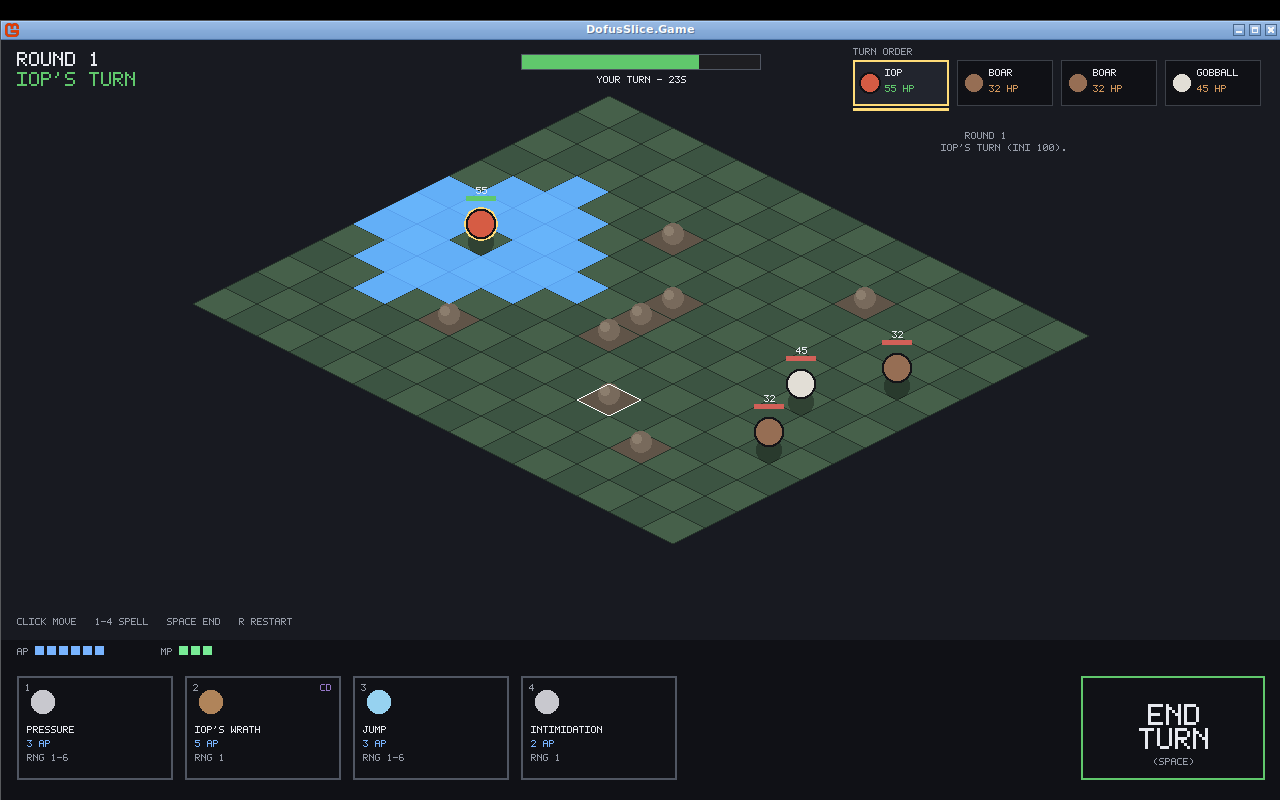
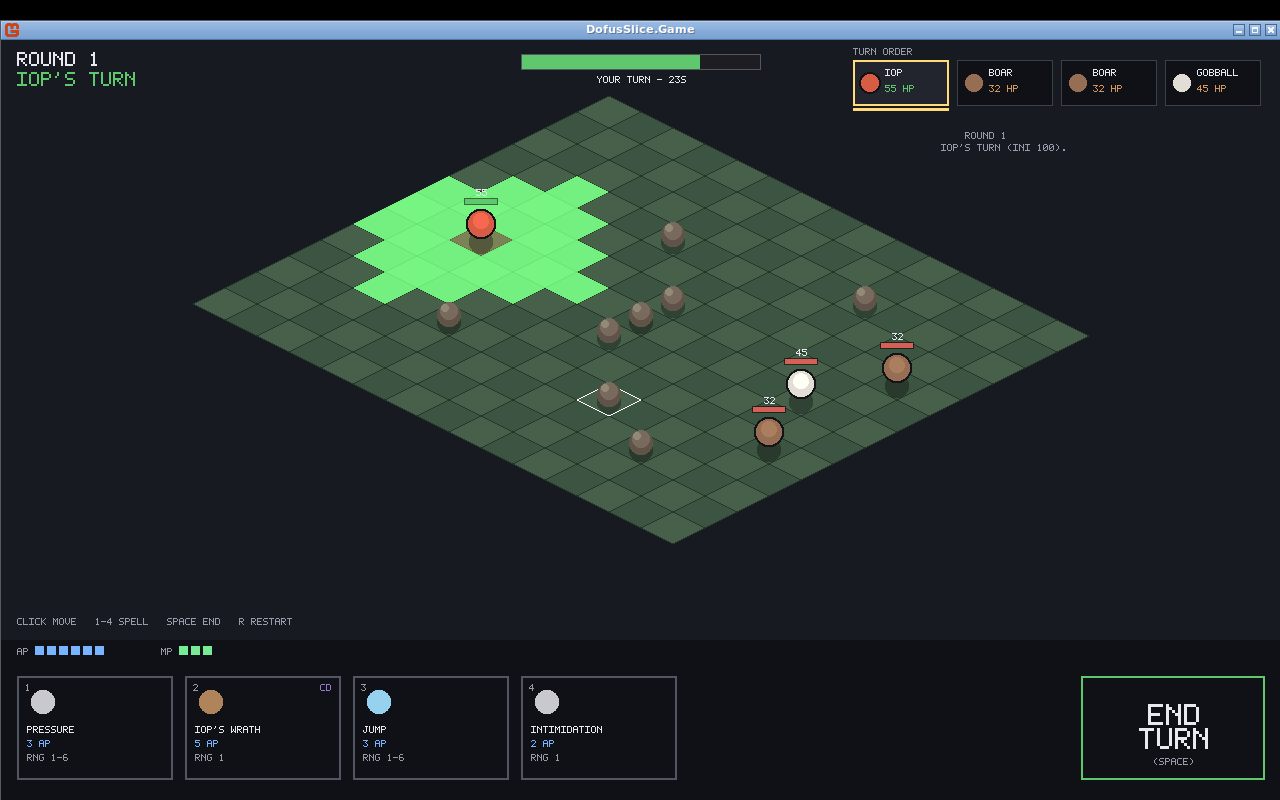
DofusSlice: sprite pipeline, unified depth sorting, Dofus-convention colours
- Add SpriteBank: loads optional external PNGs from a gitignored assets/ folder
  (iop, boar, gobball, piou, tile_grass, tile_rock), falling back to procedural
  art when absent. No third-party art is bundled or committed; the folder ships
  only a README + .gitignore so dropped art stays strictly local.
- Fix height/depth sorting: rocks and fighters now render in one pass sorted by
  feet (base) screen-Y, so tall feet-anchored sprites occlude correctly instead
  of drawing all tiles then all fighters.
- Colours follow the usual tactical convention: green = movement (PM),
  red = spell/attack range (PA), orange = AoE; active fighter's cell highlighted.
- Sprite-aware fighter/rock/tile rendering with a shared feet-anchor helper.

Core rules untouched; sim still resolves as before.

Claude-Session: https://claude.ai/code/session_01SDSyNYemg1wWfQW7JzGyUq

diff --git a/DofusSlice/DofusSlice.Game/SliceGame.cs b/DofusSlice/DofusSlice.Game/SliceGame.cs
@@ -30,6 +30,7 @@ public sealed class SliceGame : Microsoft.Xna.Framework.Game
     private Primitives _prim = null!;
     private PixelFont _font = null!;
     private IsoProjector _proj = null!;
+    private SpriteBank _sprites = null!;
 
     private CombatEngine _engine = null!;
     private BattleAnimator _anim = null!;
@@ -80,6 +81,7 @@ public sealed class SliceGame : Microsoft.Xna.Framework.Game
         _sb = new SpriteBatch(GraphicsDevice);
         _prim = new Primitives(GraphicsDevice, TileW, TileH, 64);
         _font = new PixelFont(_prim.Pixel);
+        _sprites = new SpriteBank(GraphicsDevice);
         _proj = IsoProjector.Centered(Encounter.Width, Encounter.Height, TileW, TileH,
             new Vector2(ScreenW / 2f, (HudTop / 2f) - 20));
         _anim = new BattleAnimator(_proj);
@@ -224,10 +226,10 @@ public sealed class SliceGame : Microsoft.Xna.Framework.Game
         GraphicsDevice.Clear(Palette.Background);
         _sb.Begin(samplerState: SamplerState.PointClamp);
 
-        DrawTiles();
-        DrawOverlays();
-        DrawFighters();
-        _anim.DrawEffects(_sb, _prim, _font); // corpses, impact flashes, floating numbers
+        DrawFloor();
+        DrawFloorOverlays();
+        DrawEntities();                        // rocks + fighters, one depth-sorted pass
+        _anim.DrawEffects(_sb, _prim, _font);  // corpses, impact flashes, floating numbers
         DrawHud();
         // Hold the end screen until the final death/hit animation has played out.
         if (_engine.Outcome != FightOutcome.Ongoing && !_anim.IsBusy) DrawEndOverlay();
@@ -239,19 +241,25 @@ public sealed class SliceGame : Microsoft.Xna.Framework.Game
     private IEnumerable<CellCoord> CellsByDepth() =>
         _engine.Field.AllCells().OrderBy(c => c.X + c.Y);
 
-    private void DrawTiles()
+    private static bool IsObstacle(Battlefield f, CellCoord c) =>
+        !f.IsWalkable(c) && f.BlocksLineOfSight(c);
+
+    /// <summary>The flat ground: every cell's grass tile (sprite or procedural checker).</summary>
+    private void DrawFloor()
     {
+        var grass = _sprites.Get("tile_grass");
         foreach (var c in CellsByDepth())
         {
             var center = _proj.CellCenter(c);
-            bool obstacle = !_engine.Field.IsWalkable(c) && _engine.Field.BlocksLineOfSight(c);
-            Color baseColor = ((c.X + c.Y) % 2 == 0) ? Palette.TileA : Palette.TileB;
-            _prim.DiamondAt(_sb, center, obstacle ? Palette.Obstacle : baseColor);
-            DrawTileOutline(center, Palette.TileEdge);
-            if (obstacle)
+            if (grass != null)
             {
-                _prim.DiscAt(_sb, center + new Vector2(0, -6), 11, Palette.ObstacleTop);
-                _prim.DiscAt(_sb, center + new Vector2(-4, -9), 5, new Color(140, 126, 110));
+                _sb.Draw(grass, new Vector2(center.X - TileW / 2f, center.Y - TileH / 2f), Color.White);
+            }
+            else
+            {
+                Color baseColor = ((c.X + c.Y) % 2 == 0) ? Palette.TileA : Palette.TileB;
+                _prim.DiamondAt(_sb, center, baseColor);
+                DrawTileOutline(center, Palette.TileEdge);
             }
         }
     }
@@ -268,10 +276,16 @@ public sealed class SliceGame : Microsoft.Xna.Framework.Game
         _prim.Line(_sb, left, top, 1f, color);
     }
 
-    private void DrawOverlays()
+    private void DrawFloorOverlays()
     {
         if (_engine.Outcome != FightOutcome.Ongoing) return;
+
+        // Always mark the active fighter's cell so the turn reads on the board.
+        if (_engine.Current.IsAlive)
+            _prim.DiamondAt(_sb, _anim.CenterFor(_engine.Current), Palette.CurrentRing * 0.28f);
+
         if (_anim.IsBusy) return; // hide range hints mid-action
+
         var hero = Hero;
         bool playerTurn = _engine.Current.Team == Team.Player && hero != null;
 
@@ -282,8 +296,6 @@ public sealed class SliceGame : Microsoft.Xna.Framework.Game
         if (playerTurn && _selectedSpell >= 0)
         {
             var spell = HeroSpells[_selectedSpell];
-
-            // Dim wash over the spell's whole reach, brighter on cells that are legal targets.
             foreach (var cell in _engine.SpellReachCells(hero!, spell))
                 _prim.DiamondAt(_sb, _proj.CellCenter(cell), Palette.CastReach);
 
@@ -300,36 +312,98 @@ public sealed class SliceGame : Microsoft.Xna.Framework.Game
             DrawTileOutline(_proj.CellCenter(_hover), Color.White);
     }
 
-    private void DrawFighters()
+    /// <summary>
+    /// Rocks and fighters in a single pass sorted by feet (base) screen-Y, so a taller
+    /// sprite standing on a nearer cell correctly occludes whatever is behind it. This is the
+    /// fix for the height-sorting issue: props and characters share one depth order instead
+    /// of drawing all tiles then all fighters.
+    /// </summary>
+    private void DrawEntities()
     {
-        // Depth-sort by the animated position so a sliding token overlaps correctly.
-        foreach (var f in _engine.Fighters.Where(f => f.IsAlive)
-                     .OrderBy(f => _anim.CenterFor(f).Y))
+        var items = new List<(float depth, int tie, Action draw)>();
+
+        foreach (var c in _engine.Field.AllCells())
+            if (IsObstacle(_engine.Field, c))
+            {
+                var cell = c;
+                items.Add((_proj.CellCenter(cell).Y, 0, () => DrawRock(cell)));
+            }
+
+        foreach (var f in _engine.Fighters.Where(x => x.IsAlive))
         {
-            var center = _anim.CenterFor(f);
+            var fighter = f;
+            items.Add((_anim.CenterFor(fighter).Y, 1, () => DrawFighter(fighter)));
+        }
+
+        foreach (var it in items.OrderBy(i => i.depth).ThenBy(i => i.tie))
+            it.draw();
+    }
+
+    private void DrawRock(CellCoord c)
+    {
+        var center = _proj.CellCenter(c);
+        var rock = _sprites.Get("tile_rock");
+        if (rock != null)
+        {
+            DrawSpriteFeet(rock, center, Color.White, TileH + 24);
+            return;
+        }
+        _prim.DiscAt(_sb, center + new Vector2(0, 2), 12, Palette.Shadow);
+        _prim.DiscAt(_sb, center + new Vector2(0, -5), 12, Palette.Obstacle);
+        _prim.DiscAt(_sb, center + new Vector2(0, -9), 9, Palette.ObstacleTop);
+        _prim.DiscAt(_sb, center + new Vector2(-4, -12), 4, new Color(150, 136, 120));
+    }
+
+    private void DrawFighter(Fighter f)
+    {
+        var center = _anim.CenterFor(f);
+        float flash = _anim.FlashAmount(f.Id);
+
+        // Ground shadow.
+        _prim.DiscAt(_sb, center + new Vector2(0, 2), 12, Palette.Shadow);
+
+        var sprite = _sprites.Get(f.Team == Team.Player ? "iop" : f.Name.ToLowerInvariant());
+        float topY;
+        if (sprite != null)
+        {
+            var tint = flash > 0f ? Color.Lerp(Color.White, new Color(255, 90, 90), flash) : Color.White;
+            float h = TileH * 2.2f;
+            DrawSpriteFeet(sprite, center + new Vector2(0, 4), tint, h);
+            topY = center.Y + 4 - h;
+        }
+        else
+        {
             var head = center + new Vector2(0, -16);
-
-            _prim.DiscAt(_sb, center + new Vector2(0, 2), 13, Palette.Shadow);
-
-            if (f == _engine.Current)
-                _prim.DiscAt(_sb, head, 17, Palette.CurrentRing);
-
             var body = f.Team == Team.Player ? Palette.HeroColor : Palette.CreatureColor(f.Name);
-            float flash = _anim.FlashAmount(f.Id);
             if (flash > 0f) body = Color.Lerp(body, new Color(255, 80, 80), flash);
             _prim.DiscAt(_sb, head, 15, new Color(20, 20, 24));
             _prim.DiscAt(_sb, head, 13, body);
-
-            // HP bar (eased for a smooth drain).
-            float dhp = _anim.DisplayHp(f);
-            int barW = 30;
-            var barPos = new Point((int)center.X - barW / 2, (int)(center.Y - 44));
-            _prim.FillRect(_sb, new Rectangle(barPos.X, barPos.Y, barW, 5), Palette.HpBack);
-            int fill = (int)MathF.Round(barW * Math.Clamp(dhp / f.MaxHp, 0f, 1f));
-            _prim.FillRect(_sb, new Rectangle(barPos.X, barPos.Y, fill, 5),
-                f.Team == Team.Player ? Palette.HpFill : new Color(210, 96, 88));
-            _font.DrawCentered(_sb, ((int)MathF.Round(dhp)).ToString(), (int)center.X, barPos.Y - 9, 1, Palette.Text);
+            _prim.DiscAt(_sb, head + new Vector2(0, -3), 8, body * 1.15f); // subtle head highlight
+            topY = head.Y - 15;
         }
+
+        DrawHpBar(f, center.X, topY - 10);
+    }
+
+    /// <summary>Draw a sprite anchored at its feet (bottom-centre) on the cell centre.</summary>
+    private void DrawSpriteFeet(Texture2D tex, Vector2 feet, Color tint, float targetHeight)
+    {
+        float scale = targetHeight / tex.Height;
+        _sb.Draw(tex, feet, null, tint, 0f, new Vector2(tex.Width / 2f, tex.Height),
+            scale, SpriteEffects.None, 0f);
+    }
+
+    private void DrawHpBar(Fighter f, float centerX, float y)
+    {
+        float dhp = _anim.DisplayHp(f);
+        const int barW = 32;
+        int x = (int)centerX - barW / 2;
+        _prim.FillRect(_sb, new Rectangle(x - 1, (int)y - 1, barW + 2, 7), new Color(0, 0, 0, 140));
+        _prim.FillRect(_sb, new Rectangle(x, (int)y, barW, 5), Palette.HpBack);
+        int fill = (int)MathF.Round(barW * Math.Clamp(dhp / f.MaxHp, 0f, 1f));
+        _prim.FillRect(_sb, new Rectangle(x, (int)y, fill, 5),
+            f.Team == Team.Player ? Palette.HpFill : new Color(214, 96, 88));
+        _font.DrawCentered(_sb, ((int)MathF.Round(dhp)).ToString(), (int)centerX, (int)y - 10, 1, Palette.Text);
     }
 
     // ----- HUD ----------------------------------------------------------------------

diff --git a/DofusSlice/DofusSlice.Game/Rendering/SpriteBank.cs b/DofusSlice/DofusSlice.Game/Rendering/SpriteBank.cs
@@ -1,0 +1,53 @@
+using Microsoft.Xna.Framework.Graphics;
+
+namespace DofusSlice.Game.Rendering;
+
+/// <summary>
+/// Loads optional external PNG sprites from an <c>assets/</c> folder next to the executable
+/// and hands them to the renderer, falling back to procedural art when a file is absent.
+///
+/// This is the seam for real art: drop your own (or locally-kept datamined) PNGs into
+/// <c>assets/</c> and they appear automatically. The folder is gitignored, so no third-party
+/// art is ever committed or distributed with the project — see <c>assets/README.md</c>.
+/// Recognised names: iop, boar, gobball, piou (fighters); tile_grass, tile_rock (map).
+/// </summary>
+public sealed class SpriteBank
+{
+    private readonly GraphicsDevice _gd;
+    private readonly string _dir;
+    private readonly Dictionary<string, Texture2D?> _cache = new(StringComparer.OrdinalIgnoreCase);
+
+    public SpriteBank(GraphicsDevice gd)
+    {
+        _gd = gd;
+        _dir = Path.Combine(AppContext.BaseDirectory, "assets");
+    }
+
+    /// <summary>Whether any external art was found (so the UI can note it's using placeholders).</summary>
+    public bool AnyLoaded { get; private set; }
+
+    /// <summary>Returns the sprite for <paramref name="name"/>, or null to signal "draw procedurally".</summary>
+    public Texture2D? Get(string name)
+    {
+        if (_cache.TryGetValue(name, out var cached)) return cached;
+
+        Texture2D? tex = null;
+        var path = Path.Combine(_dir, name + ".png");
+        try
+        {
+            if (File.Exists(path))
+            {
+                using var fs = File.OpenRead(path);
+                tex = Texture2D.FromStream(_gd, fs);
+                AnyLoaded = true;
+            }
+        }
+        catch
+        {
+            tex = null; // a bad/locked file just falls back to procedural art
+        }
+
+        _cache[name] = tex;
+        return tex;
+    }
+}

diff --git a/DofusSlice/DofusSlice.Game/Rendering/Palette.cs b/DofusSlice/DofusSlice.Game/Rendering/Palette.cs
@@ -15,10 +15,12 @@ public static class Palette
     public static readonly Color Obstacle = new(96, 84, 72); // rock
     public static readonly Color ObstacleTop = new(120, 106, 92);
 
-    public static readonly Color MoveRange = new(74, 140, 220, 150);
-    public static readonly Color CastReach = new(224, 150, 60, 70);   // spell's full geometric reach
-    public static readonly Color CastRange = new(240, 170, 70, 170);  // cells that are valid targets right now
-    public static readonly Color Aoe = new(220, 70, 60, 170);
+    // Functional cell colours, matching the usual tactical convention (as in Dofus):
+    // green = movement (PM), red = spell/attack range (PA), orange = area of effect.
+    public static readonly Color MoveRange = new(90, 205, 100, 150);
+    public static readonly Color CastReach = new(214, 74, 62, 78);    // spell's full geometric reach (dim)
+    public static readonly Color CastRange = new(236, 92, 74, 168);   // cells that are valid targets right now
+    public static readonly Color Aoe = new(240, 160, 60, 180);
     public static readonly Color Hover = new(255, 255, 255, 90);
     public static readonly Color CurrentRing = new(255, 220, 120);
 

diff --git a/DofusSlice/DofusSlice.Game/assets/README.md b/DofusSlice/DofusSlice.Game/assets/README.md
@@ -1,0 +1,23 @@
+# Sprite assets (local only)
+
+Drop PNG files here and the game uses them automatically instead of the procedural
+placeholders. **Nothing in this folder is committed** (see `.gitignore`) — keep any
+third-party/datamined art strictly local, since it may be copyrighted.
+
+Recognised filenames (all optional — any you omit fall back to procedural art):
+
+| File | Used for | Suggested size / anchor |
+|------|----------|-------------------------|
+| `iop.png` | the player character | ~64x96, bottom-centre = feet |
+| `boar.png` | Boar mob | ~64x64, bottom-centre = feet |
+| `gobball.png` | Gobball mob | ~64x64 |
+| `piou.png` | Piou mob | ~48x48 |
+| `tile_grass.png` | floor tile | 64x32 iso diamond |
+| `tile_rock.png` | obstacle tile | 64x48 (extra height above the diamond) |
+
+Fighter sprites are drawn anchored at the **feet** (bottom-centre sits on the cell
+centre), so taller sprites stand up out of their tile and depth-sort correctly against
+other fighters and obstacles.
+
+> Provide your own art, or art you are licensed to use. This project ships only
+> procedural placeholders and never redistributes third-party assets.

diff --git a/DofusSlice/README.md b/DofusSlice/README.md
@@ -18,6 +18,19 @@ and win/lose.
 > monster row so you can plug your own art or datamined data in later, but shipping Ankama's
 > copyrighted art/sound publicly would be a copyright issue — keep any such assets local.
 
+## Using your own art (sprite pipeline)
+
+The renderer looks for optional PNG sprites in an `assets/` folder next to the executable
+and uses them automatically, falling back to procedural placeholders for anything missing.
+See `DofusSlice.Game/assets/README.md` for the recognised filenames (`iop`, `boar`,
+`gobball`, `piou`, `tile_grass`, `tile_rock`). Fighter sprites are drawn anchored at the
+feet so tall art stands out of its tile and depth-sorts correctly.
+
+That folder is **gitignored** — art you drop in stays strictly local and is never committed
+or distributed, so you can point it at your own (or locally-kept datamined) art without any
+third-party assets ending up in the repo. Cell colours follow the usual tactical convention:
+**green = movement (PM)**, **red = spell/attack range (PA)**, **orange = area of effect**.
+
 ## Running it
 
 Requires the .NET 8 SDK.
